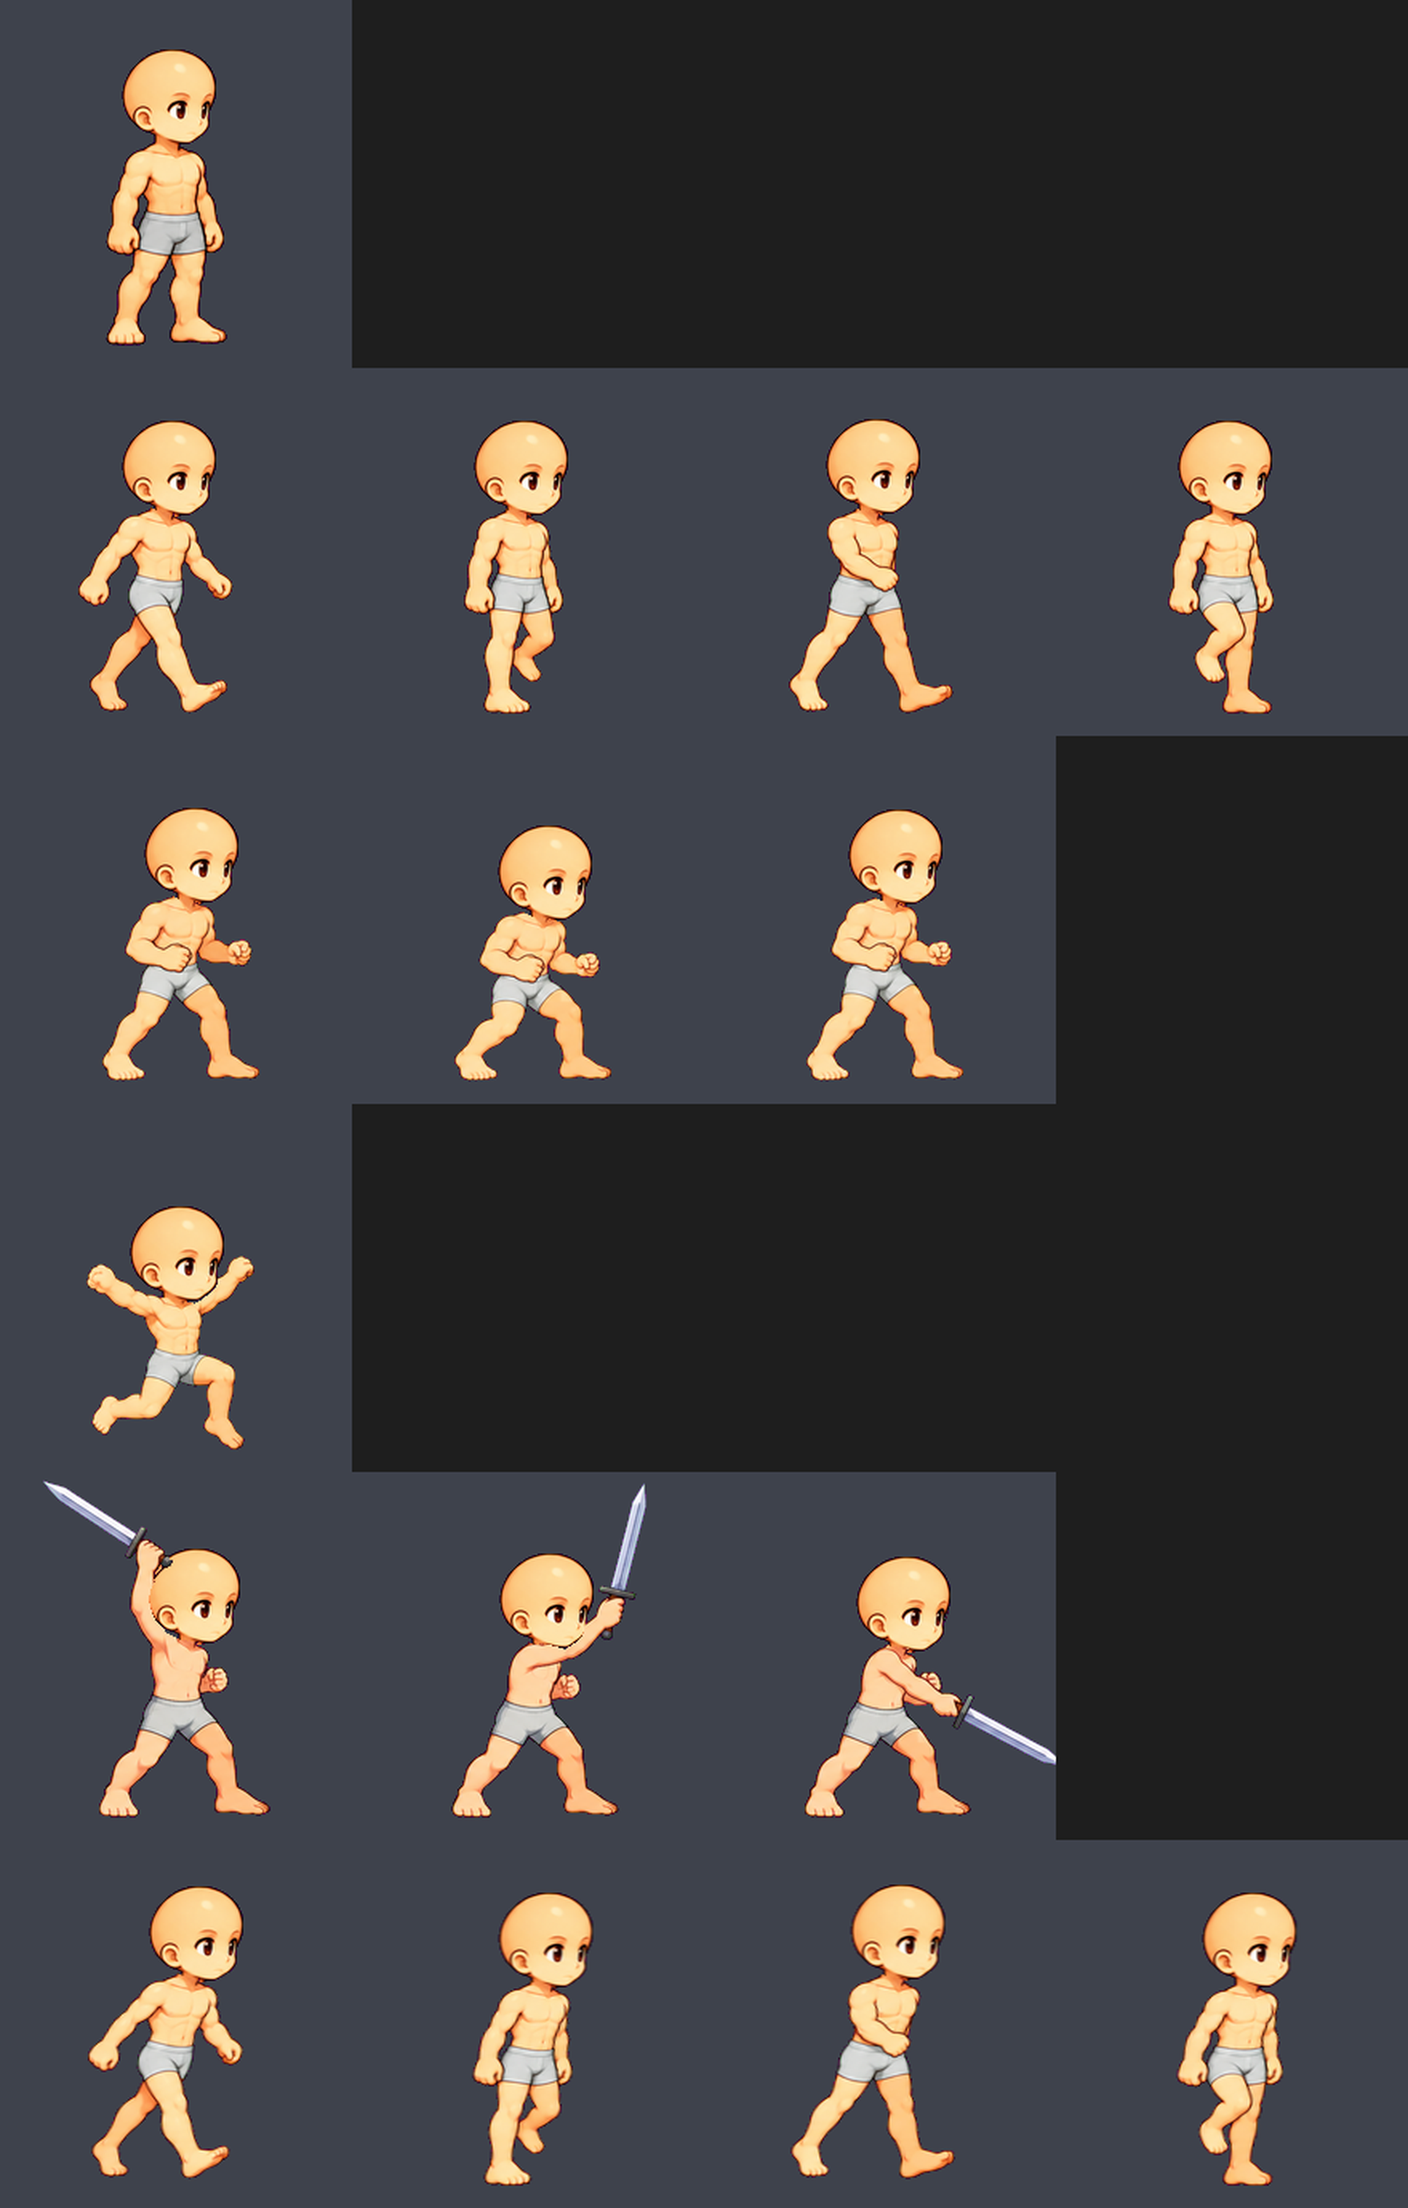
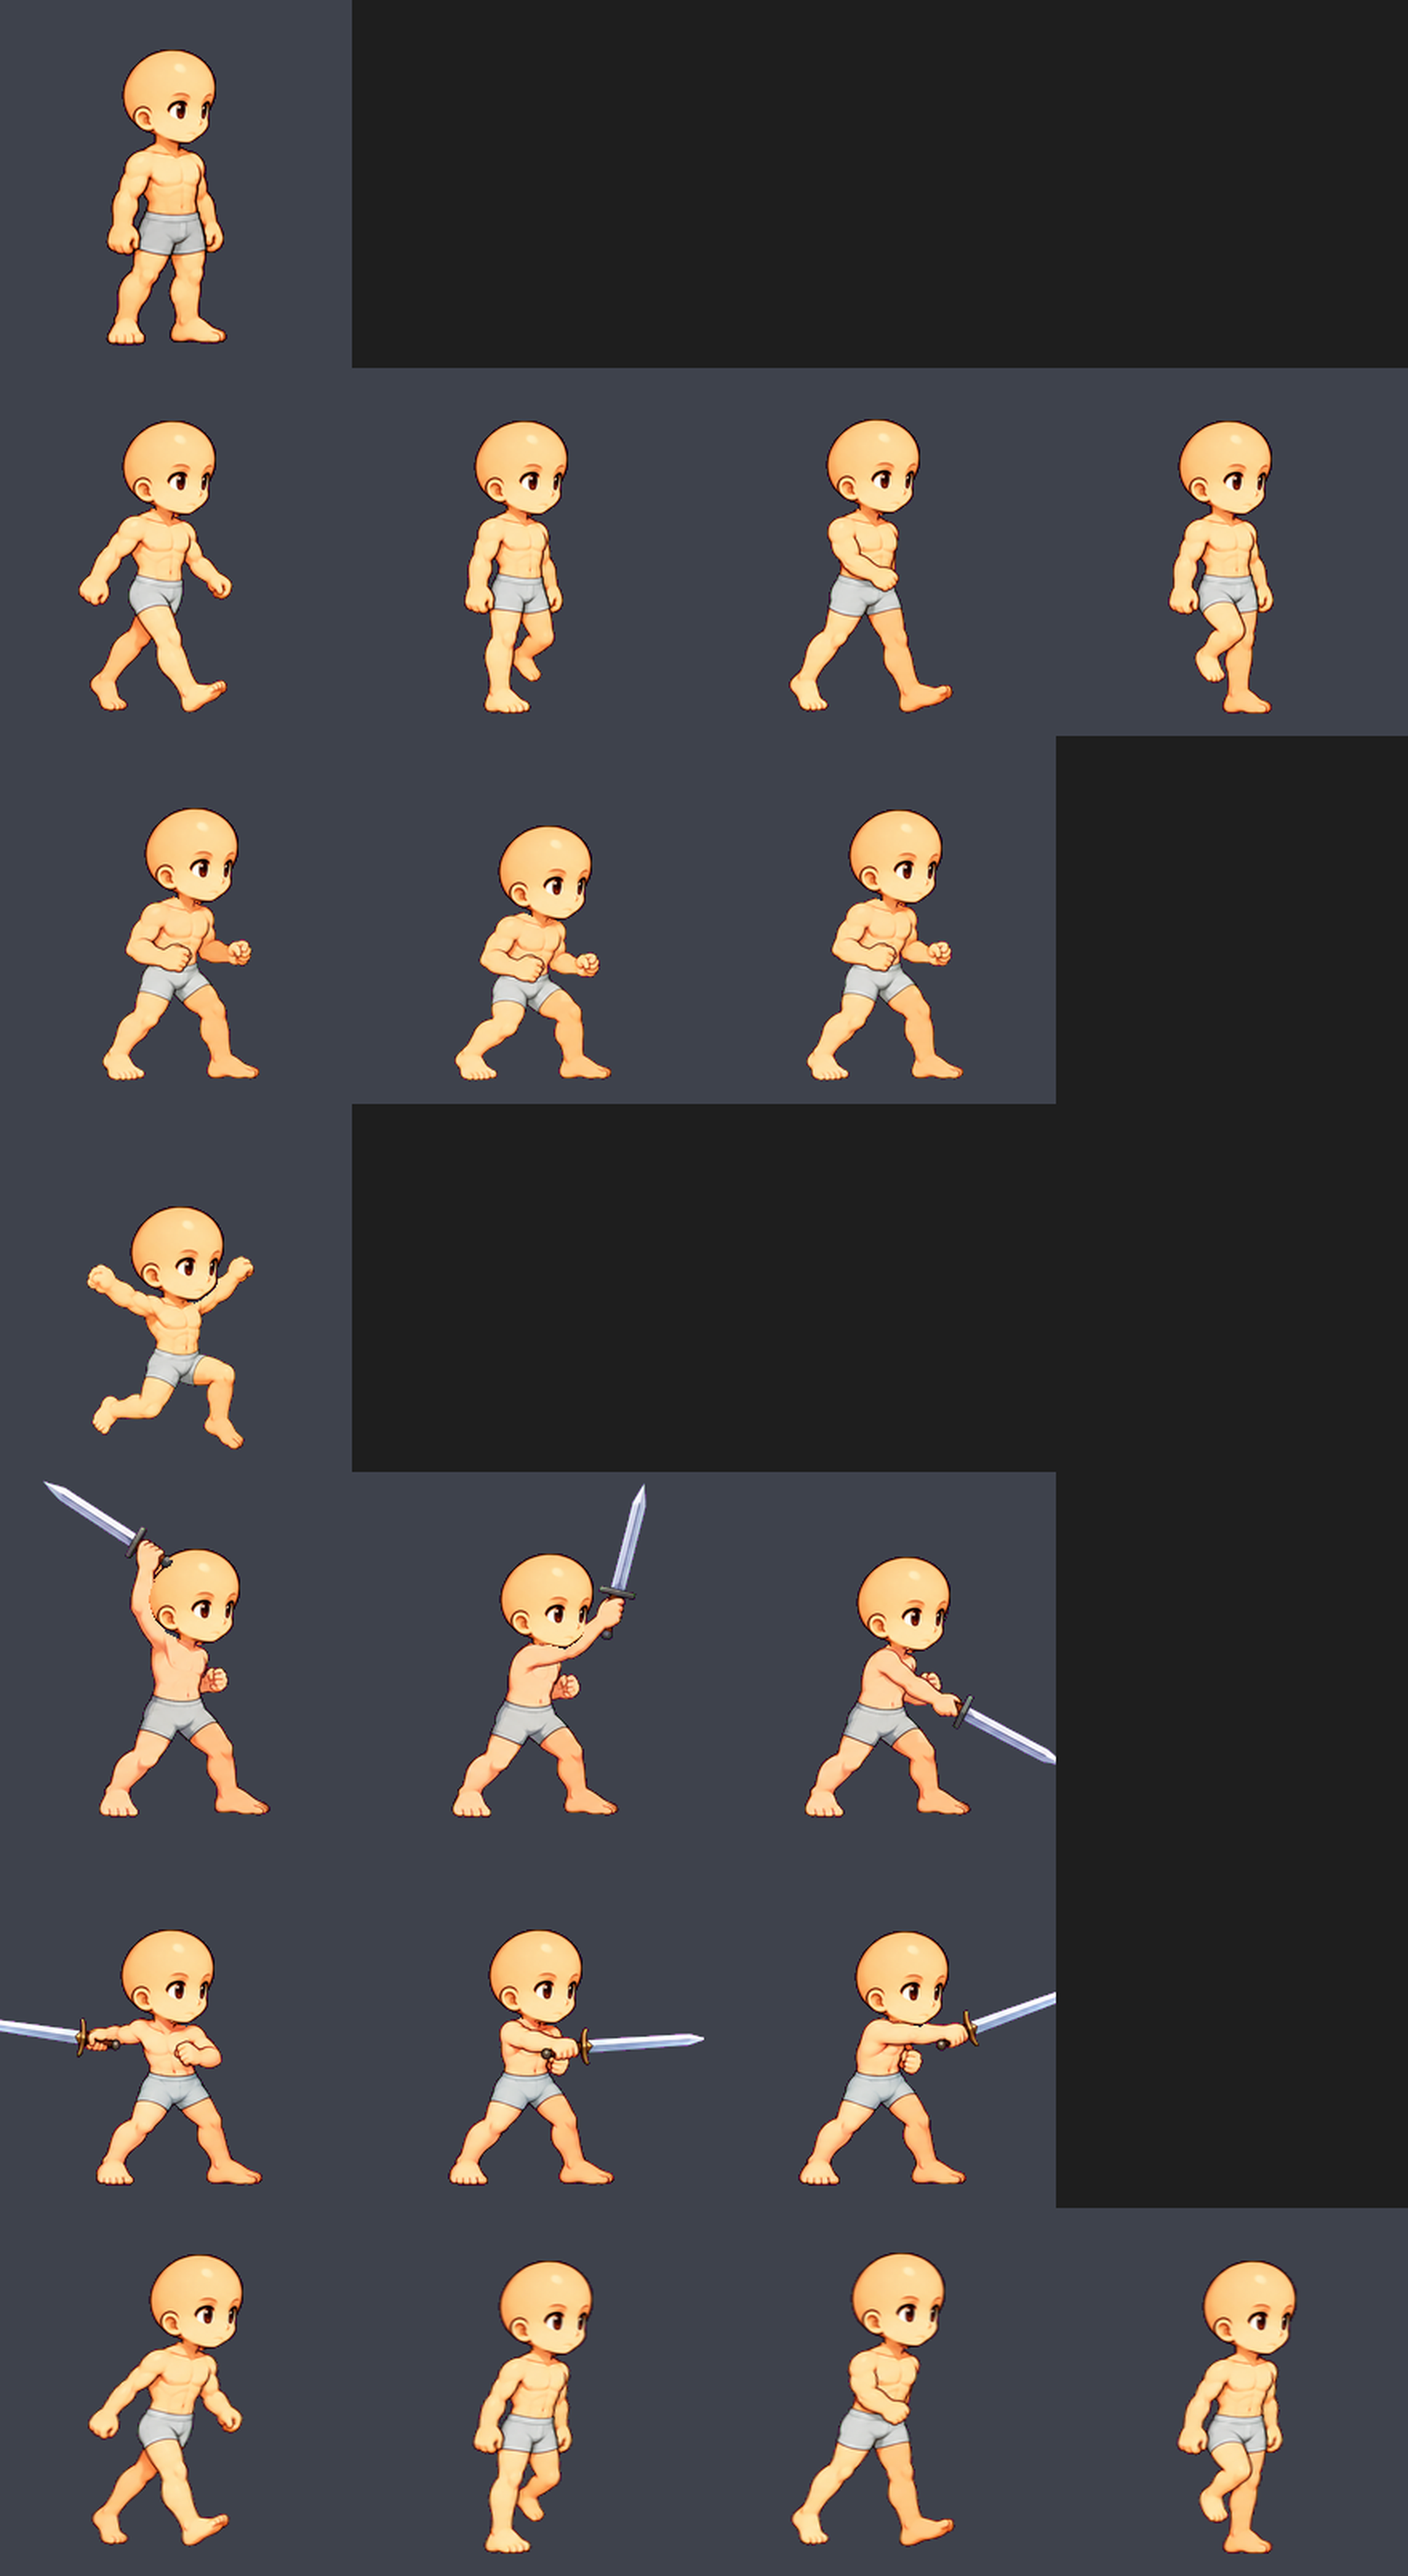
Base character sword attack 2 of 3 (horizontal swing); every attack picks one of the drawn swings
- One GPT drawing (man top row, woman bottom row), 3 frames: drawn back, sweep, reach.
- Each basic attack plays one of the drawn swings at random (MapleStory), picked from the cast's id so
  everybody sees the same swing (remote players and the sparring bot too).
- A brass crossguard counts as part of the sword.

Claude-Session: https://claude.ai/code/session_019q8CMrxghbNzj8w42KsHoP

diff --git a/src/scenes/LegacyCourtyardScene.ts b/src/scenes/LegacyCourtyardScene.ts
@@ -35,7 +35,7 @@ import { ActorView, Equipped, preloadCosmetics, skinColor, grayKey, damageSkin, 
 import { ensureLightBeam } from '../skills/SkillFx';
 import HANDS from '../data/judgment-hands.json';
 import { baseLoop, ClassKey, dirOf, preloadBodies, registerBodies, resolvePose, PoseFrame } from '../game/Body';
-import { AnimSnap, LAND_MS, Mode, RECOVER_MS, poseQuery } from '../game/PoseState';
+import { AnimSnap, LAND_MS, Mode, RECOVER_MS, castSeed, poseQuery } from '../game/PoseState';
 import { CombatBody, GAUGE, HitOutcome, Kin, PHYS, jump, newKin, steer, stepKin } from '../combat/Combat';
 import { FinalSkill, HitEvent } from '../skills/SkillTypes';
 import { finalSkill, iconUrl, kitFor } from '../skills/FinalKit';
@@ -652,7 +652,7 @@ export class LegacyCourtyardScene extends Phaser.Scene {
     const snap: AnimSnap = {
       mode, t: this.mode === 'walk' || this.mode === 'run' || this.mode === 'idle' ? this.loopT : this.modeT,
       speed: Math.hypot(k.vx, k.vy), vz: k.vz, stunMs: 220,
-      skill: run ? { id: run.skill.id, stage: run.stage, elapsed: run.elapsed, ...run.timings } : undefined,
+      skill: run ? { id: run.skill.id, stage: run.stage, elapsed: run.elapsed, ...run.timings, seed: castSeed(run.castId) } : undefined,
     };
     const dir = this.dir; // Whirlwind spins inside its own 360° body loop
     const pose = resolvePose(this.cls, dir, poseQuery(snap), v.wantsBase || this.character!.level < BEGINNER_TO, genderOf(this.character));
@@ -984,7 +984,7 @@ export class LegacyCourtyardScene extends Phaser.Scene {
       if (phase === 'done') this.endRun(run, false);
       return;
     }
-    if (phase === 'startup') (run.attackerId === BOT_ID ? this.bot?.view : this.pvp?.remotes.get(run.attackerId))?.startSkill(run.skill.id, run.stage, dirOf(run.aim.x, run.aim.y, 'right'), run.aim);
+    if (phase === 'startup') (run.attackerId === BOT_ID ? this.bot?.view : this.pvp?.remotes.get(run.attackerId))?.startSkill(run.skill.id, run.stage, dirOf(run.aim.x, run.aim.y, 'right'), run.aim, castSeed(run.castId));
   }
 
   private togglePanel(k: 'K' | 'I' | 'O' | 'J'): void {

diff --git a/src/game/Body.ts b/src/game/Body.ts
@@ -179,8 +179,9 @@ function nakedPose(cls: string, dir: Dir, g: 'male' | 'female', q: PoseQuery): P
     const c = baseLoop(q.state, q.speed); frame = Math.floor((q.t * c.fps) / 1000) % has[anim];
   } else if (q.k === 'loop' && q.state === 'alert' && has.alert) { anim = 'alert'; frame = Math.floor(q.t / 500) % has.alert; } // 0.5 s a frame (Maple)
   else if (q.k === 'jump' && q.phase !== 'land' && has.jump) anim = 'jump'; // Maple: one frame the whole time off the ground
-  else if (q.k === 'skill' && q.id === 'warrior_basic' && has.swing1) { // the sword swing: wind-up, strike, follow-through
-    anim = 'swing1'; frame = q.elapsed < q.startup ? 0 : q.elapsed < q.startup + q.active * 0.5 ? 1 : 2;
+  else if (q.k === 'skill' && q.id === 'warrior_basic' && has.swing1) { // a sword swing (Maple: one of the drawn ones at random)
+    const sw = ['swing1', 'swing2', 'swing3'].filter((a) => has[a]);
+    anim = sw[(q.seed ?? 0) % sw.length]; frame = q.elapsed < q.startup ? 0 : q.elapsed < q.startup + q.active * 0.5 ? 1 : 2; // wind-up, strike, follow-through
   }
   const key = nakedKey(g, anim), [hx, hy] = NAKED_HEADS[g]?.[anim]?.[frame] ?? [0, 0], fx = f.flip ? -1 : 1;
   return { ...f, key, frame, wkey: `${key}-w`, blade: null, bladeBehind: false, hair: null, head: null,
@@ -238,7 +239,7 @@ export type PoseQuery =
   | { k: 'getup'; p: number }
   | { k: 'recovery'; p: number }
   | { k: 'death'; p: number }
-  | { k: 'skill'; id: string; stage: number; elapsed: number; startup: number; active: number; recovery: number };
+  | { k: 'skill'; id: string; stage: number; elapsed: number; startup: number; active: number; recovery: number; seed?: number };
 
 /** Beginner base body locomotion: 4 key poses per cycle (contact, passing, contact, passing — legs one after the other);
  *  the run plays the same legs faster, leaning forward, the strides off the ground. contact = the frames a foot lands

diff --git a/src/pvp/RemotePlayer.ts b/src/pvp/RemotePlayer.ts
@@ -26,7 +26,7 @@ export class RemotePlayer {
   private vz = 0;
   sz = 0;
   aim = { x: 0, y: 1 };
-  private skill: { id: string; stage: number; elapsed: number; startup: number; active: number; recovery: number } | null = null;
+  private skill: { id: string; stage: number; elapsed: number; startup: number; active: number; recovery: number; seed?: number } | null = null;
   private flashMs = -1;
   private deadMs = -1;
   private deathFx: DeathFx;
@@ -74,11 +74,11 @@ export class RemotePlayer {
   }
 
   /** Cast intent from this player: show the same body animation locally (timing from the cast moment). */
-  startSkill(id: string, stage: number, dir: Dir, aim: { x: number; y: number }): void {
+  startSkill(id: string, stage: number, dir: Dir, aim: { x: number; y: number }, seed = 0): void {
     const s = finalSkill(id);
     if (!s || !this.alive) return;
     const t = s.chain?.timings?.[stage] ?? s;
-    this.skill = { id: s.id, stage, elapsed: 0, startup: t.startup, active: t.active, recovery: t.recovery };
+    this.skill = { id: s.id, stage, elapsed: 0, startup: t.startup, active: t.active, recovery: t.recovery, seed };
     this.dir = dir; this.aim = aim; this.mode = 'skill'; this.modeT = 0;
   }
 

diff --git a/src/game/PoseState.ts b/src/game/PoseState.ts
@@ -5,7 +5,15 @@ import { PoseQuery } from './Body';
 
 export type Mode = 'idle' | 'alert' | 'walk' | 'run' | 'takeoff' | 'air' | 'land' | 'skill' | 'recover' | 'hurt' | 'launched' | 'down' | 'getup' | 'dead';
 
-export interface SkillPose { id: string; stage: number; elapsed: number; startup: number; active: number; recovery: number }
+export interface SkillPose { id: string; stage: number; elapsed: number; startup: number; active: number; recovery: number; seed?: number }
+
+/** Stable number of a cast (its id): picks the attack's drawn variant the same way on every screen (Maple: random). */
+export const castSeed = (id: string): number => {
+  let h = 2166136261;
+  for (let i = 0; i < id.length; i++) h = Math.imul(h ^ id.charCodeAt(i), 16777619);
+  h ^= h >>> 16; h = Math.imul(h, 0x85ebca6b); h ^= h >>> 13; h = Math.imul(h, 0xc2b2ae35); h ^= h >>> 16; // well mixed: casts in a row differ at random
+  return h >>> 0;
+};
 
 export interface AnimSnap {
   mode: Mode;

diff --git a/tools/base/naked_frames.py b/tools/base/naked_frames.py
@@ -145,7 +145,8 @@ def gpt_sword(f):
     along = (xx - hx_) * ux + (yy - hy_) * uy; perp = np.abs((xx - hx_) * uy - (yy - hy_) * ux)
     guard = (along > -0.06 * ln) & (along < 0.06 * ln) & (perp < 0.14 * ln)       # the crossguard
     grip = (along >= 0) & (along < 0.48 * ln) & (perp < 0.06 * ln + 0.12 * np.clip(along, 0, None))   # grip, pommel
-    hiltm |= (guard | grip) & m & ~skin & (dark | brown | steel)
+    gold = (sat > 0.45) & (R > 120) & (R > B + 60)                                 # a brass guard
+    hiltm |= (guard | grip) & m & ((~skin & (dark | brown | steel)) | (guard & gold))
   return nd.binary_closing(blade | hiltm, iterations=1) & m
 
 
